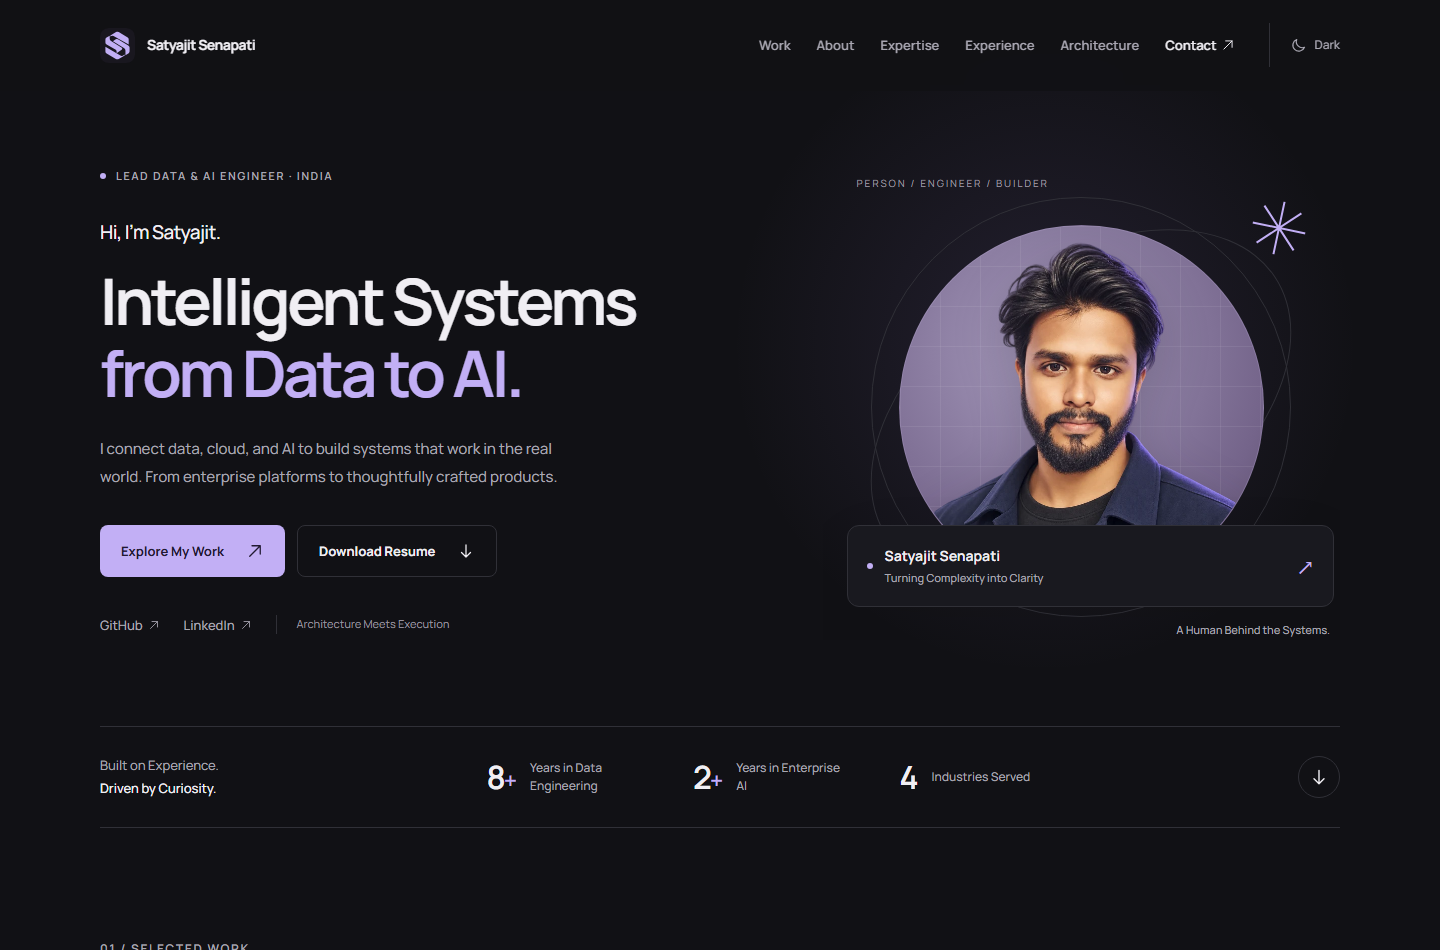
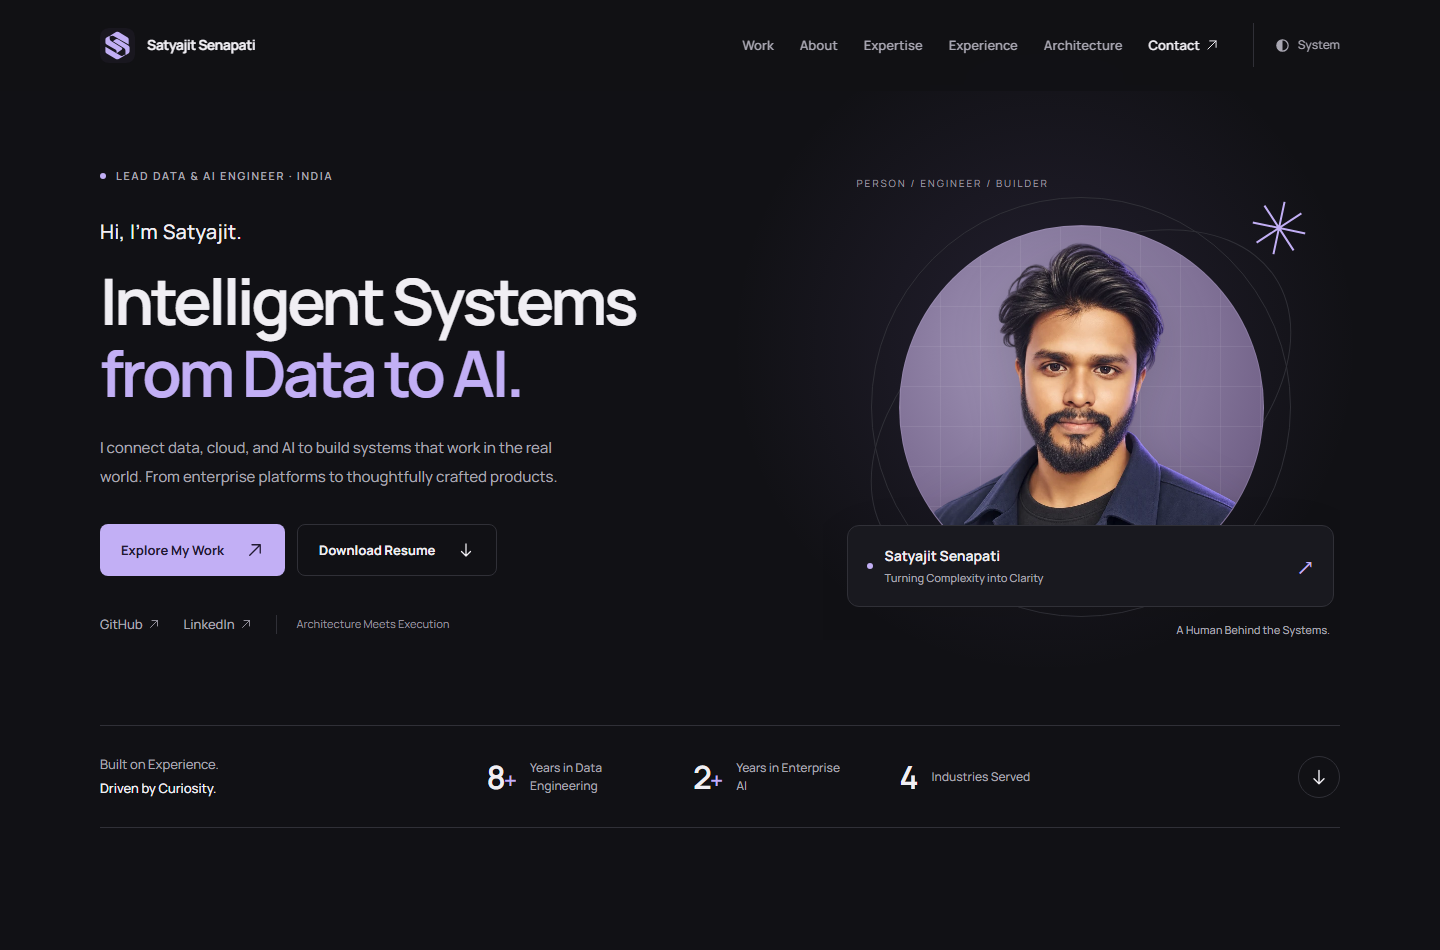
Give the hero greeting more readable spacing

diff --git a/src/styles.css b/src/styles.css
@@ -369,10 +369,12 @@ summary::marker {
 }
 .hero-hello {
   color: var(--text);
-  font-size: 19px;
+  font-size: 20px;
   font-weight: var(--weight-medium);
+  line-height: 1.6;
   margin-bottom: 17px;
-  letter-spacing: -0.03em;
+  letter-spacing: 0.01em;
+  word-spacing: 0.04em;
 }
 .hero h1 {
   font-size: clamp(40px, 4.45vw, 66px);
@@ -1722,7 +1724,7 @@ summary::marker {
     margin-bottom: 25px;
   }
   .hero-hello {
-    font-size: 17px;
+    font-size: 18px;
   }
   .portrait-disc {
     width: 275px;
@@ -2008,7 +2010,7 @@ summary::marker {
     margin-bottom: 22px;
   }
   .hero-hello {
-    font-size: 17px;
+    font-size: 18px;
     margin-bottom: 12px;
   }
   .hero-intro {
